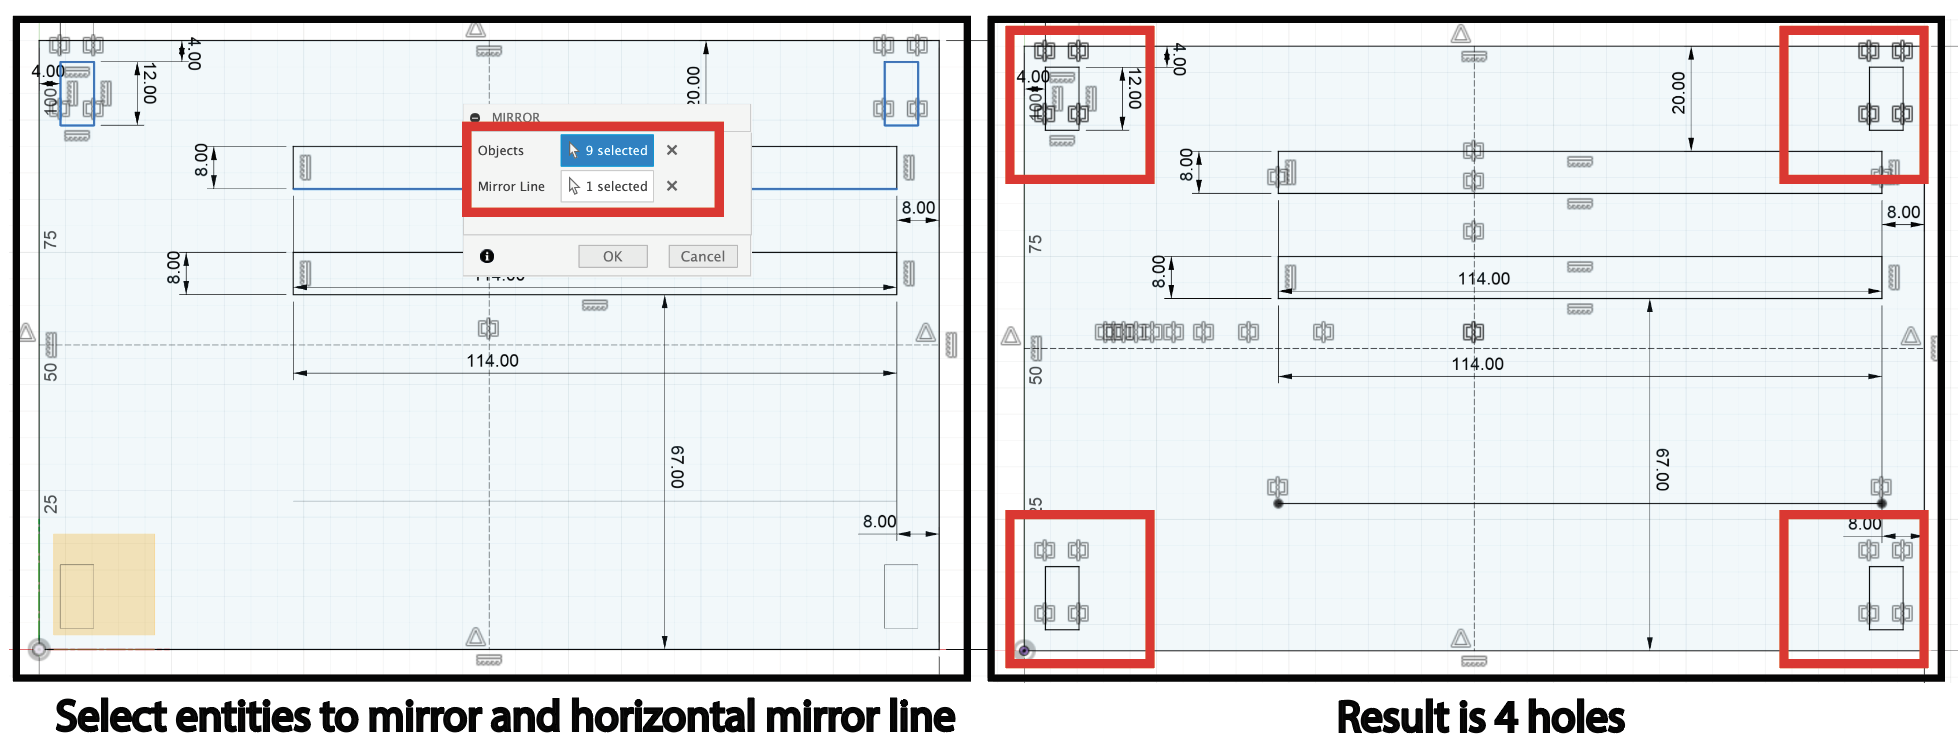
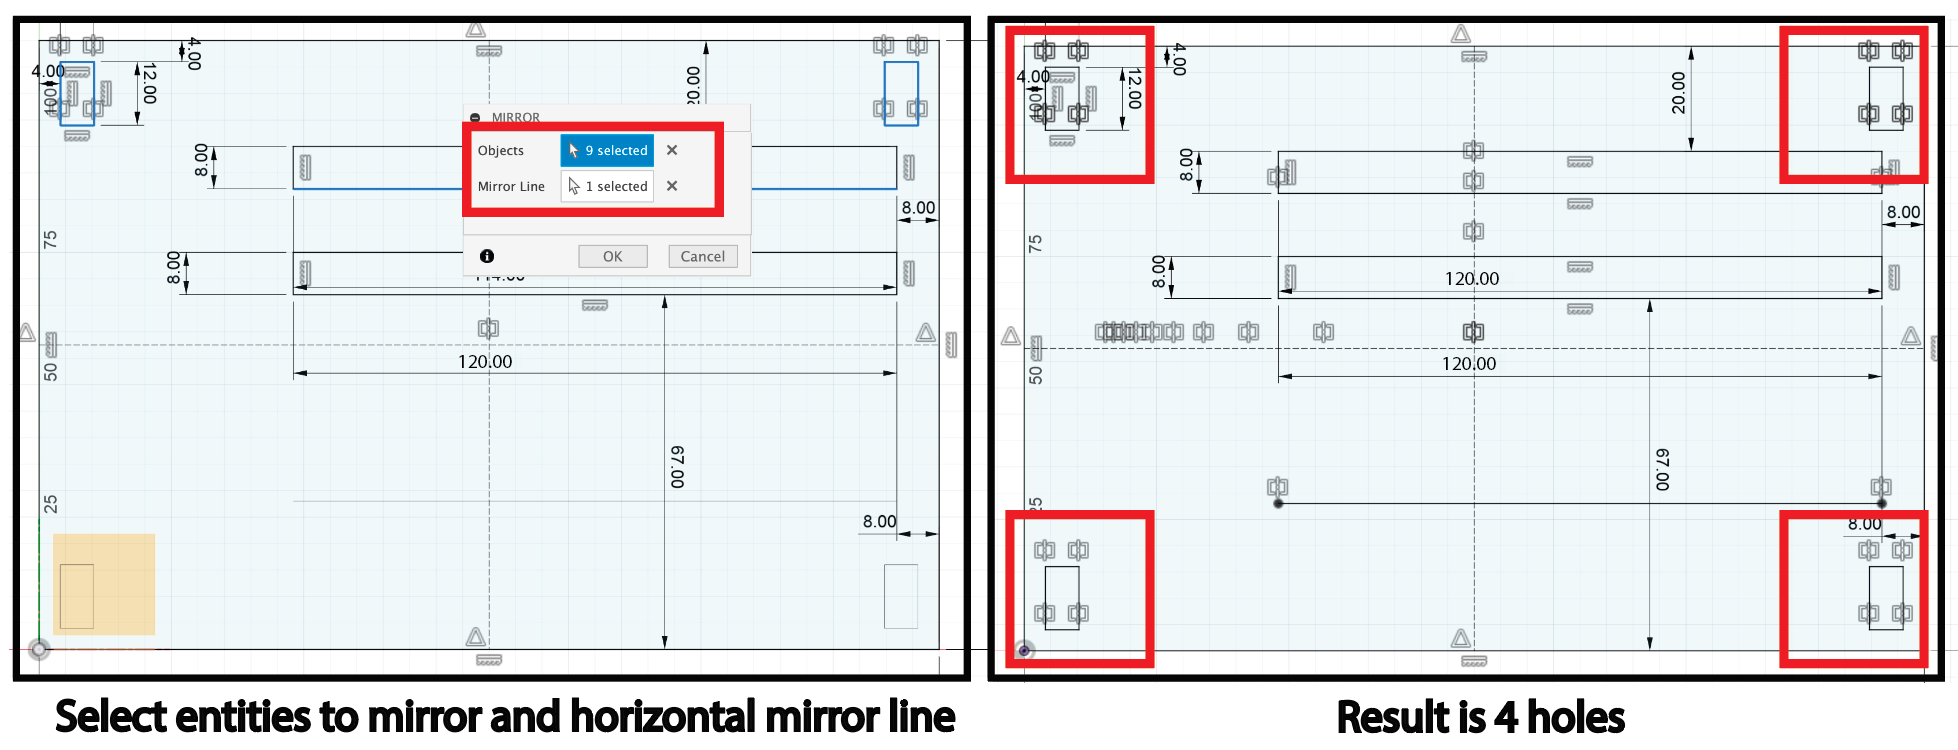
fixed pictures for dimension change in lasercutting assignment

diff --git a/labs/beginner/lab1.html b/labs/beginner/lab1.html
@@ -249,7 +249,7 @@
 
                 <ul>
                     <li>Using the same steps as above, draw another rectangle inside the first one. This will be the hole for the slider.</li>
-                    <li>Dimension the new rectangle to 114 mm (length) and 8 mm (width).</li>
+                    <li>Dimension the new rectangle to 120 mm (length) and 8 mm (width).</li>
                     <li>Now, dimension the vertical distance from the new rectangle to the main rectangle's top length to 20 mm.
                         <li> Dimension again the horizontal distance from the width of the slider hole to the width of the main rectangle to be 8mm (right-side).</li>
                     <li>Repeat these steps, ensuring the vertical and horizontal distances are (vertical: 67 mm from bottom), (horizontal: 8mm from right) respectively.</li>
@@ -622,7 +622,8 @@
             <li><strong>Sanding Surface</strong>:
                 <ul>
                 
-                    <li>something about sanding goes here</li>
+                    <li>Follow the visual instructions from the figure to sand off the burn 
+                        marks on your piece.</li>
                 </ul>
                 
                 
@@ -630,7 +631,7 @@
             <li><strong>Sanding Edges</strong>:
                 <ul>
                 
-                    <li>something about sanding goes here</li>
+                    <li>Repeat the same process but with the edges.</li>
                 </ul>
 
                 
